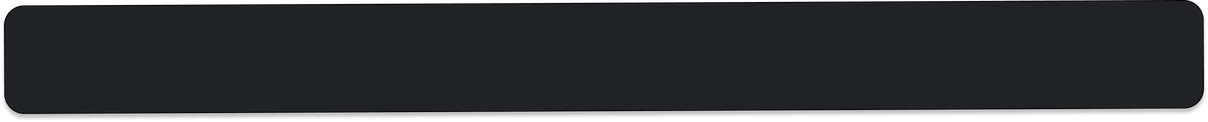
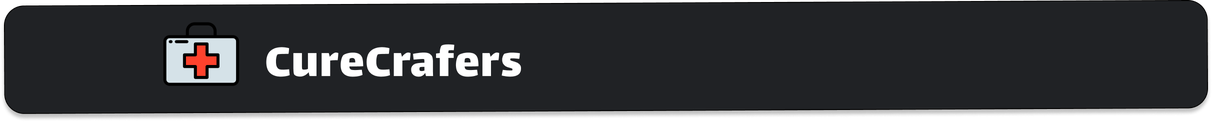
GUI Improved.

Changed region(s): [[0.1225, 0.1721, 0.4288, 0.7131]]

diff --git a/Interface/gui.py b/Interface/gui.py
@@ -1,3 +1,4 @@
+
 # This file was generated by the Tkinter Designer by Parth Jadhav
 # https://github.com/ParthJadhav/Tkinter-Designer
 
@@ -20,99 +21,149 @@ def relative_to_assets(path: str) -> Path:
 window = Tk()
 
 window.geometry("1200x700")
-window.configure(bg="#202225")
+window.configure(bg = "#202225")
 
 
 canvas = Canvas(
     window,
-    bg="#202225",
-    height=700,
-    width=1200,
+    bg = "#202225",
+    height = 700,
+    width = 1200,
+    bd = 0,
+    highlightthickness = 0,
+    relief = "ridge"
+)
+
+canvas.place(x = 0, y = 0)
+image_image_1 = PhotoImage(
+    file=relative_to_assets("image_1.png"))
+image_1 = canvas.create_image(
+    604.4124145507812,
+    62.13761901855469,
+    image=image_image_1
+)
+
+image_image_2 = PhotoImage(
+    file=relative_to_assets("image_4.png"))
+image_2 = Button(
+    image=image_image_2,
     bd=0,
     highlightthickness=0,
-    relief="ridge",
+    bg="#202225", 
+    #command=your_command_function  # Replace "your_command_function" with the actual command function
 )
 
-canvas.place(x=0, y=0)
-image_image_1 = PhotoImage(file=relative_to_assets("image_1.png"))
-image_1 = canvas.create_image(600.0, 62.692639388144016, image=image_image_1)
-
-canvas.create_text(
-    191.0,
-    18.0,
-    anchor="nw",
-    text="CureCrafers",
-    fill="#FFFFFF",
-    font=("Lalezar Regular", 50 * -1),
+image_2.place(
+    x=1020.0,
+    y=623.0
 )
 
-image_image_2 = PhotoImage(file=relative_to_assets("image_2.png"))
-image_2 = canvas.create_image(61.0, 350.0, image=image_image_2)
-
-image_image_3 = PhotoImage(file=relative_to_assets("image_3.png"))
-image_3 = canvas.create_image(180.0, 48.0, image=image_image_3)
-
-button_image_1 = PhotoImage(file=relative_to_assets("button_1.png"))
-button_1 = Button(
-    image=button_image_1,
-    borderwidth=0,
+entry_image_1 = PhotoImage(
+    file=relative_to_assets("entry_1.png"))
+entry_bg_1 = canvas.create_image(
+    533.0,
+    620.0,
+    image=entry_image_1
+)
+entry_1 = Entry(
+    bd=0,
+    bg="#2F3235",
+    fg="#FFFFFF",  # Set text color to white
     highlightthickness=0,
-    command=lambda: print("button_1 clicked"),
-    relief="solid",
+    font=("Magra", 24)  # Increase font size to 24
 )
-button_1.place(x=1084.0, y=591.0, width=62.0, height=62.0)
+entry_1.place(
+    x=209.0,
+    y=567.0,
+    width=648.0,
+    height=104.0
+)
 
-button_image_2 = PhotoImage(file=relative_to_assets("button_2.png"))
-button_2 = Button(
-    image=button_image_2,
-    borderwidth=0,
+image_image_3 = PhotoImage(
+    file=relative_to_assets("image_3.png"))
+image_3 = Button(
+    image=image_image_3,
+    bd=0,
     highlightthickness=0,
-    command=lambda: print("button_2 clicked"),
-    relief="flat",
+    bg="#202225", 
+    #command=your_command_function  # Replace "your_command_function" with the actual command function
 )
-button_2.place(x=1013.0, y=595.0, width=53.0, height=54.0)
 
-button_image_3 = PhotoImage(file=relative_to_assets("button_3.png"))
-button_3 = Button(
-    image=button_image_3,
-    borderwidth=0,
+image_3.place(
+    x=1075.0,
+    y=570.0
+)
+
+image_image_4 = PhotoImage(
+    file=relative_to_assets("image_2.png"))
+image_4 = canvas.create_image(
+    60.0,
+    350.0,
+    image=image_image_4
+)
+
+
+image_image_2 = PhotoImage(
+    file=relative_to_assets("image_4.png"))
+image_2 = Button(
+    image=image_image_2,
+    bd=0,
     highlightthickness=0,
-    command=lambda: print("button_3 clicked"),
-    relief="flat",
+    bg="#202225", 
+    #command=your_command_function  # Replace "your_command_function" with the actual command function
 )
-button_3.place(x=922.0, y=589.0, width=60.0, height=60.0)
 
-image_image_4 = PhotoImage(file=relative_to_assets("image_4.png"))
-image_4 = canvas.create_image(657.0, 619.0, image=image_image_4)
+image_2.place(
+    x=1015.0,
+    y=595.0
+)
 
-button_image_4 = PhotoImage(file=relative_to_assets("button_4.png"))
-button_4 = Button(
-    image=button_image_4,
-    borderwidth=0,
+
+image_image_5 = PhotoImage(
+    file=relative_to_assets("image_5.png"))
+image_5 = Button(
+    image=image_image_5,
+    bd=0,
     highlightthickness=0,
-    command=lambda: print("button_4 clicked"),
-    relief="flat",
+    bg="#202225", 
+    #command=your_command_function  # Replace "your_command_function" with the actual command function
 )
-button_4.place(x=24.0, y=22.0, width=72.37151336669922, height=54.0)
 
-button_image_5 = PhotoImage(file=relative_to_assets("button_5.png"))
-button_5 = Button(
-    image=button_image_5,
-    borderwidth=0,
-    highlightthickness=0,
-    command=lambda: print("button_5 clicked"),
-    relief="flat",
+image_5.place(
+    x=930.0,
+    y=590.0
 )
-button_5.place(x=28.0, y=123.0, width=62.0, height=59.0)
 
-button_image_6 = PhotoImage(file=relative_to_assets("button_6.png"))
-button_6 = Button(
-    image=button_image_6,
-    borderwidth=0,
-    highlightthickness=0,
-    command=lambda: print("button_6 clicked"),
-    relief="flat",
+image_image_6 = PhotoImage(
+    file=relative_to_assets("image_6.png"))
+image_6 = canvas.create_image(
+    60.0,
+    49.0,
+    image=image_image_6
 )
-button_6.place(x=25.0, y=621.0, width=69.0, height=52.37151336669922)
+
+image_image_7 = PhotoImage(
+    file=relative_to_assets("image_7.png"))
+image_7 = canvas.create_image(
+    59.0,
+    152.0,
+    image=image_image_7
+)
+
+image_image_8 = PhotoImage(
+    file=relative_to_assets("image_8.png"))
+image_8 = canvas.create_image(
+    59.0,
+    647.0,
+    image=image_image_8
+)
+
+image_image_9 = PhotoImage(
+    file=relative_to_assets("image_9.png"))
+image_9 = canvas.create_image(
+    660.0,
+    295.0,
+    image=image_image_9
+)
 window.resizable(False, False)
 window.mainloop()
